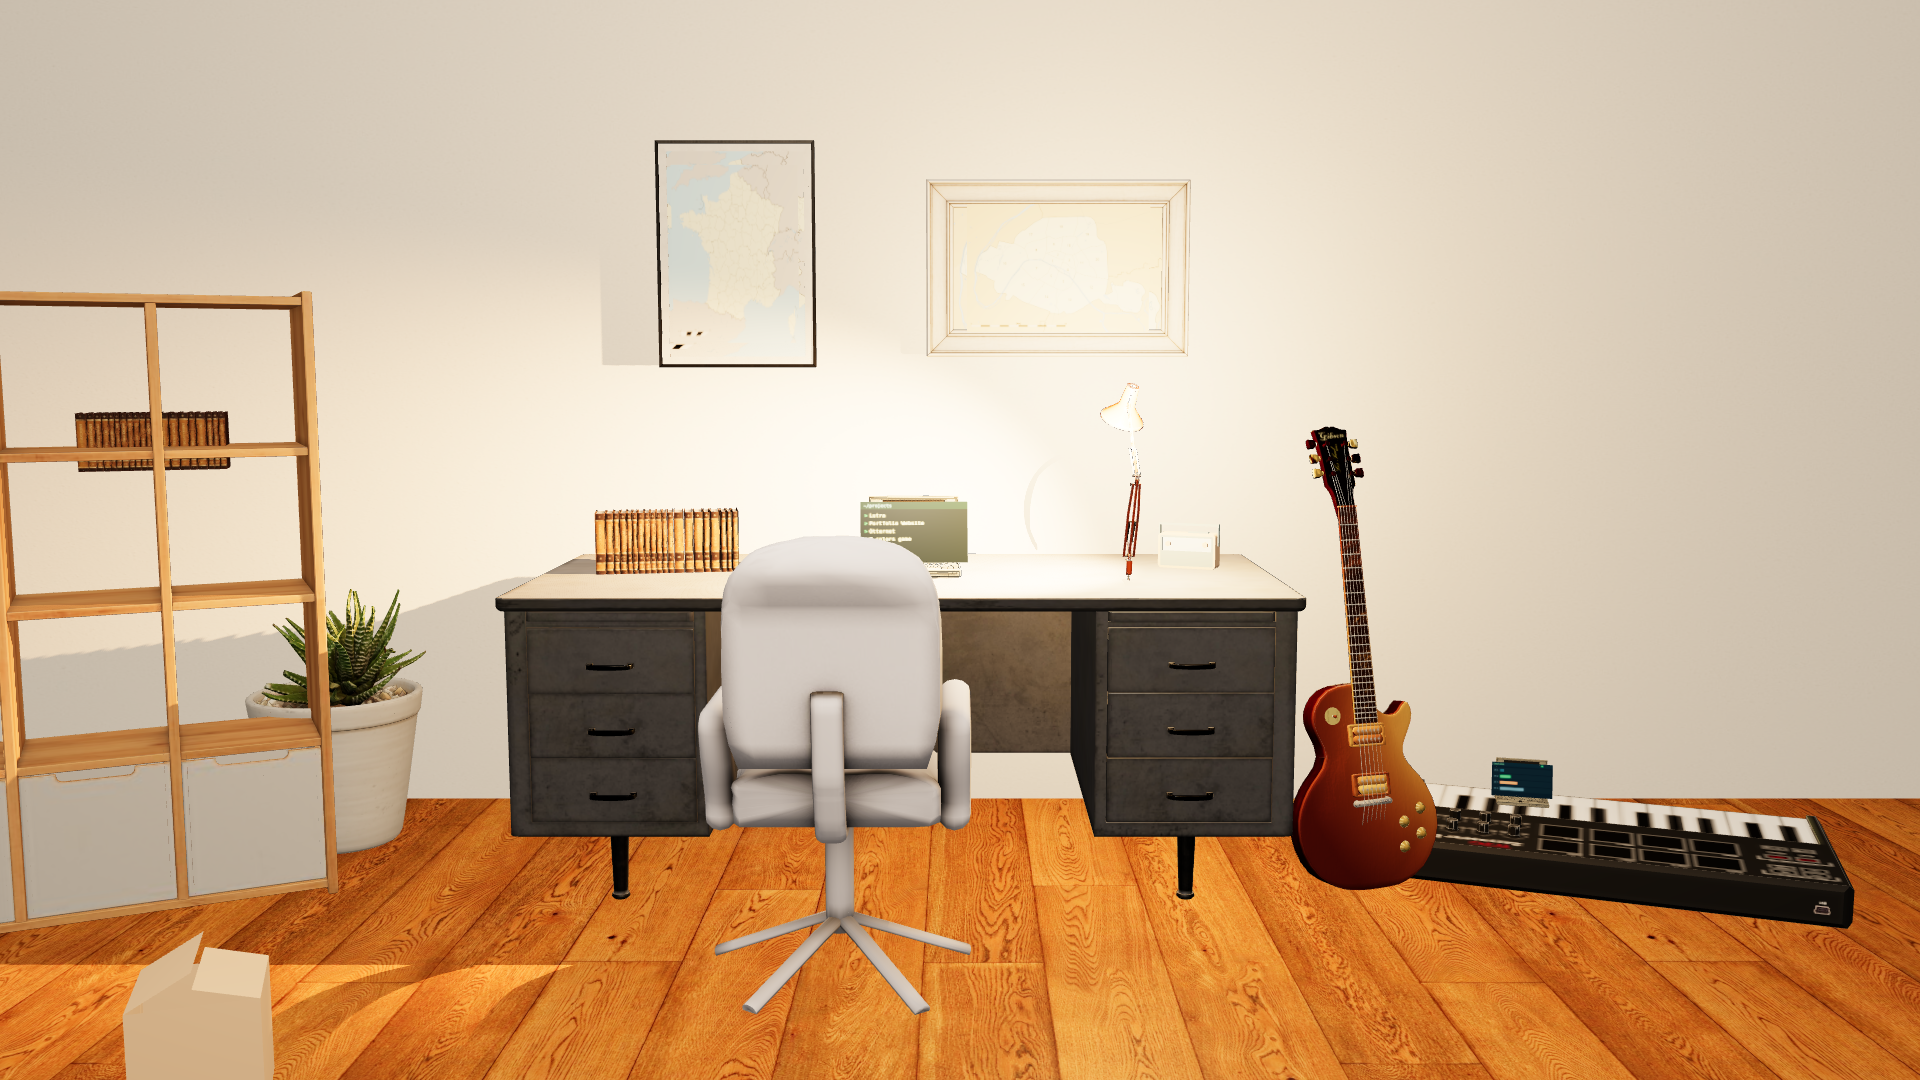
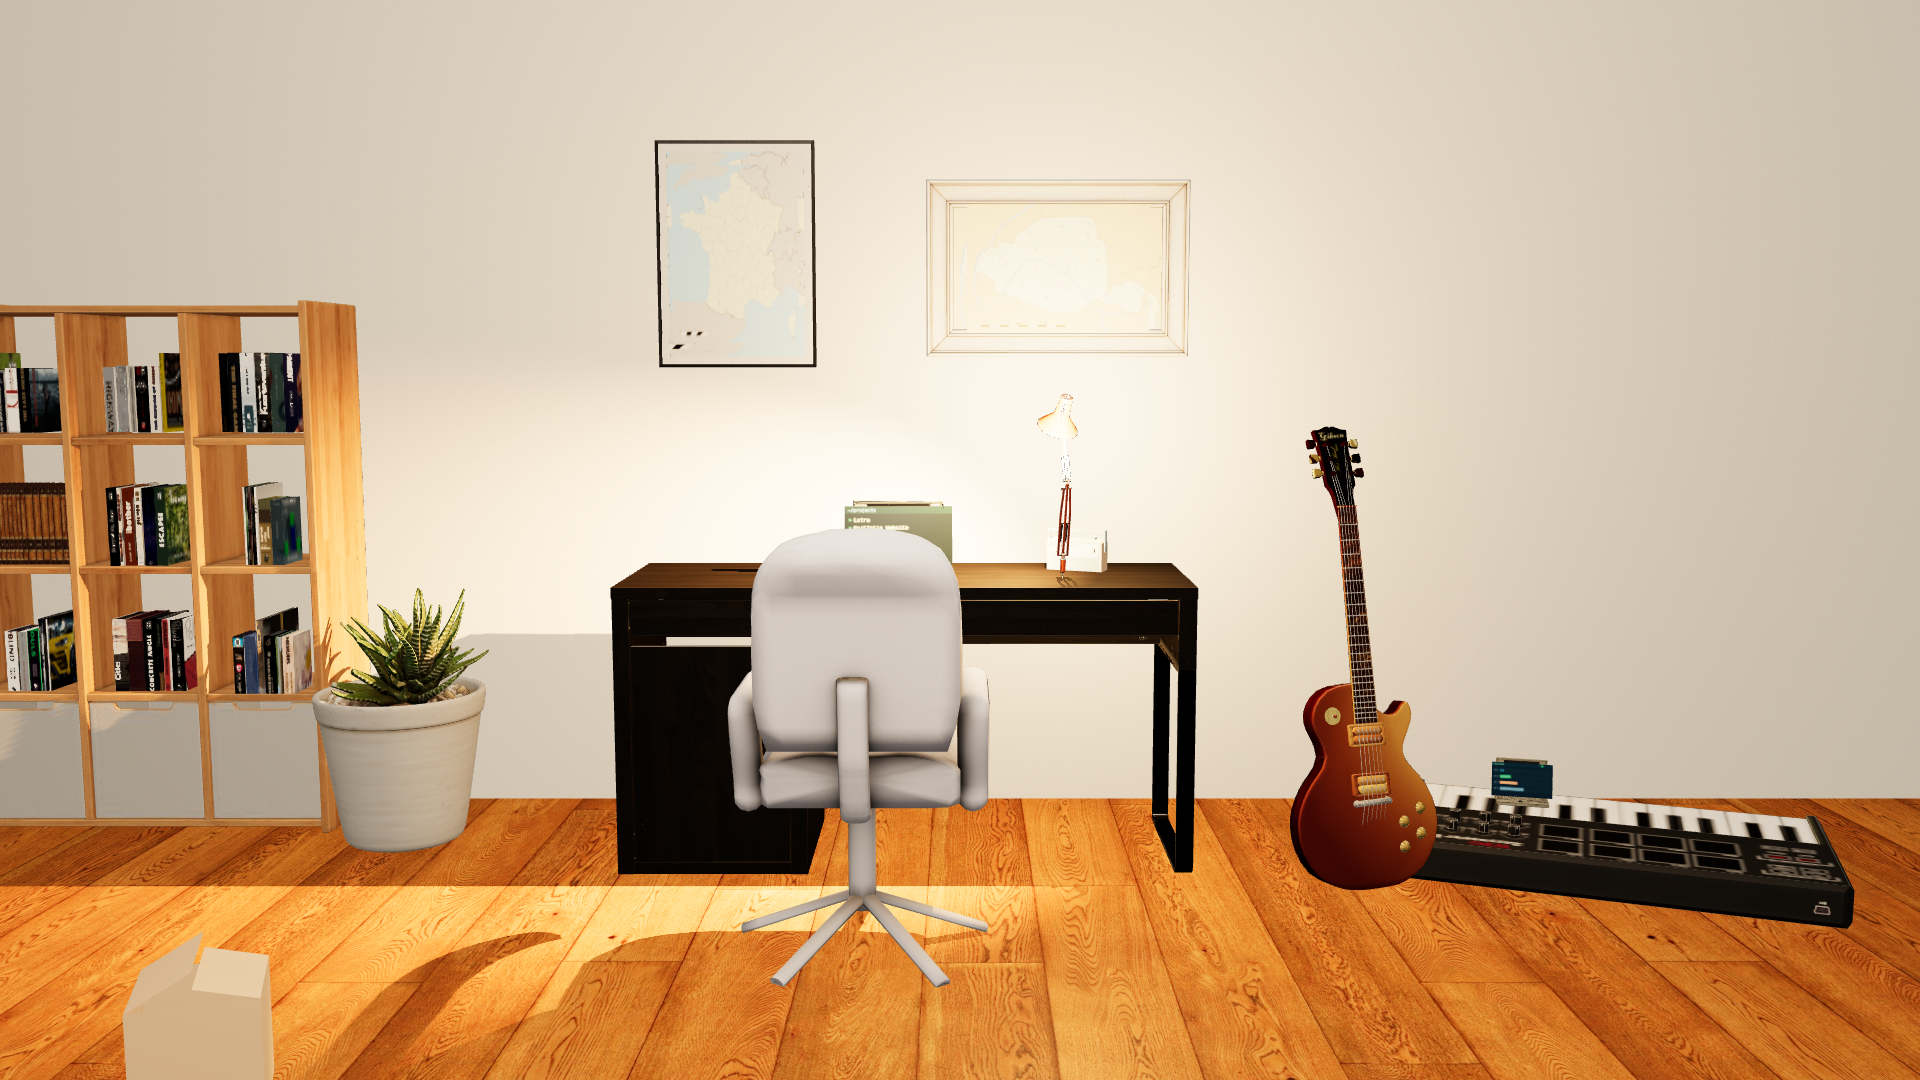
Colle le Kallax au mur et éclaircit le bureau MICKE

Changed region(s): [[0.0, 0.2444, 0.6875, 0.9778], [0.625, 0.4889, 0.6562, 0.5194]]

diff --git a/src/den/DenScene.tsx b/src/den/DenScene.tsx
@@ -29,6 +29,17 @@ const lampMat = (mat) => {
   }
 };
 
+const deskMat = (mat) => {
+  mat.map = null;
+  mat.normalMap = null;
+  mat.roughnessMap = null;
+  mat.metalnessMap = null;
+  mat.aoMap = null;
+  mat.color = new THREE.Color('#f1eee8');
+  mat.metalness = 0.04;
+  mat.roughness = 0.48;
+};
+
 const WallMaps = ({ onHint, clearHint, onClick, hint }) => {
   const [paris, france] = useTexture(['/assets/maps/paris.png', '/assets/maps/france.png']);
   useEffect(() => {
@@ -249,7 +260,7 @@ const DenScene = ({ focus, setFocus, setHint, setPanel, onViewChange, bake }) =>
         onClick={() => setFocus(focus === 'maps' ? 'home' : 'maps')}
       />
 
-      <FitGLB url={PH.desk} height={0.75} width={1.48} position={[0.02, 0, WALL + 0.42]} />
+      <FitGLB url={PH.desk} height={0.75} width={1.52} position={[0.02, 0, WALL + 0.48]} rotation={[0, Math.PI, 0]} onMat={deskMat} />
       <FitGLB url="/models/office-chair.glb" height={0.98} position={[-0.06, 0, WALL + 1.18]} rotation={[0, Math.PI, 0]} />
 
       <Laptop
@@ -264,7 +275,7 @@ const DenScene = ({ focus, setFocus, setHint, setPanel, onViewChange, bake }) =>
 
       <FitGLB url={PH.lamp} height={0.48} position={[0.42, 0.75, WALL + 0.5]} onMat={lampMat} />
 
-      <group position={[-2.12, 0, WALL + 0.12]} rotation={[0, -Math.PI / 2, 0]}>
+      <group position={[-2.12, 0, WALL + 0.04]} rotation={[0, -Math.PI / 2, 0]}>
         <Hotspot hint={t.den.diploma} onOver={hint} onOut={clear} onClick={() => setPanel('education')}>
           <FitGLB url={PH.shelf} height={1.48} />
         </Hotspot>

diff --git a/src/den/BakeCapture.tsx b/src/den/BakeCapture.tsx
@@ -24,7 +24,7 @@ void main() {
 
 const ANCHORS = {
   maps: [0, 1.62, -1.47],
-  diploma: [-2.12, 0.78, -1.38],
+  diploma: [-2.12, 0.78, -1.46],
   laptop: [0.0, 0.88, -0.98],
   guitar: [1.16, 0.7, -0.82],
   piano: [1.82, 0.22, -0.92],
